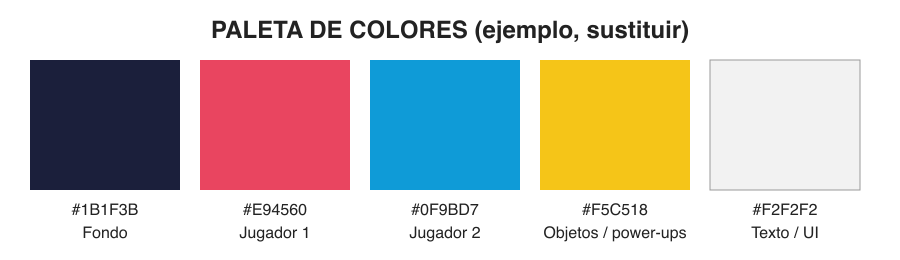
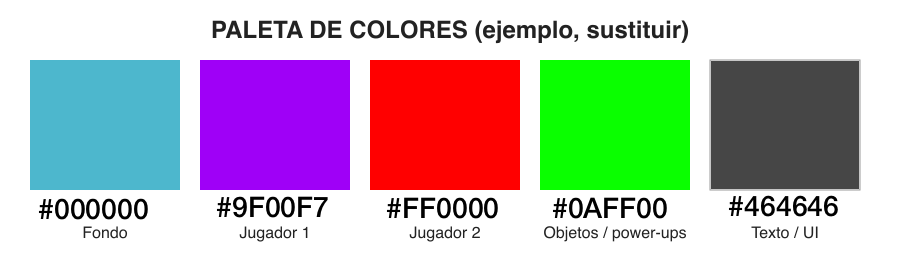
falta solo portada

diff --git a/README.md b/README.md
@@ -197,10 +197,11 @@ El juego utiliza un estilo Pixel Art minimalista (será creado en Aseprite), com
 
 *Figura 8. Paleta de colores de One More Shot.*
 
-- **Fondo:** XXX
-- **Jugador 1:** XXX (`#CODIGOCOLOR`).
-- **Jugador 2:** XXX (`#CODIGOCOLOR`).
-- **Objetos, explosiones y minas:** XXX (`#CODIGOCOLOR`, `#CODIGOCOLOR`, `#CODIGOCOLOR`) para advertir del peligro inminente y los impactos.
+- **Fondo:** #000000
+- **Jugador 1:** #9F00F7 
+- **Jugador 2:** #FF0000
+- **Objetos:** #0AFF00 
+- **Texto/UI:** #464646
 
 ### 5.4. Aspectos técnicos: cámara y representación
 
@@ -299,9 +300,11 @@ flowchart TD
 
 ## 9. Referencias
 
-[1] XXX (AÑO). NOMBRE. DESCRIPCION
+[1] Bungie (2001). Halo. Referencia para el trasfondo del "Programa Spartan" y los supersoldados.
 
-[2] XXX (AÑO). NOMBRE. DESCRIPCION
+[2] Arrowhead Game Studios (2024). Helldivers 2. Referencia para el contexto espacial y los planetas Meridia y Malevelon Creek.
+
+[3] CD Projekt Red (2020). Cyberpunk 2077. Referencia temática, estética y la figura del cazarrecompensas letal.
 
 
 
